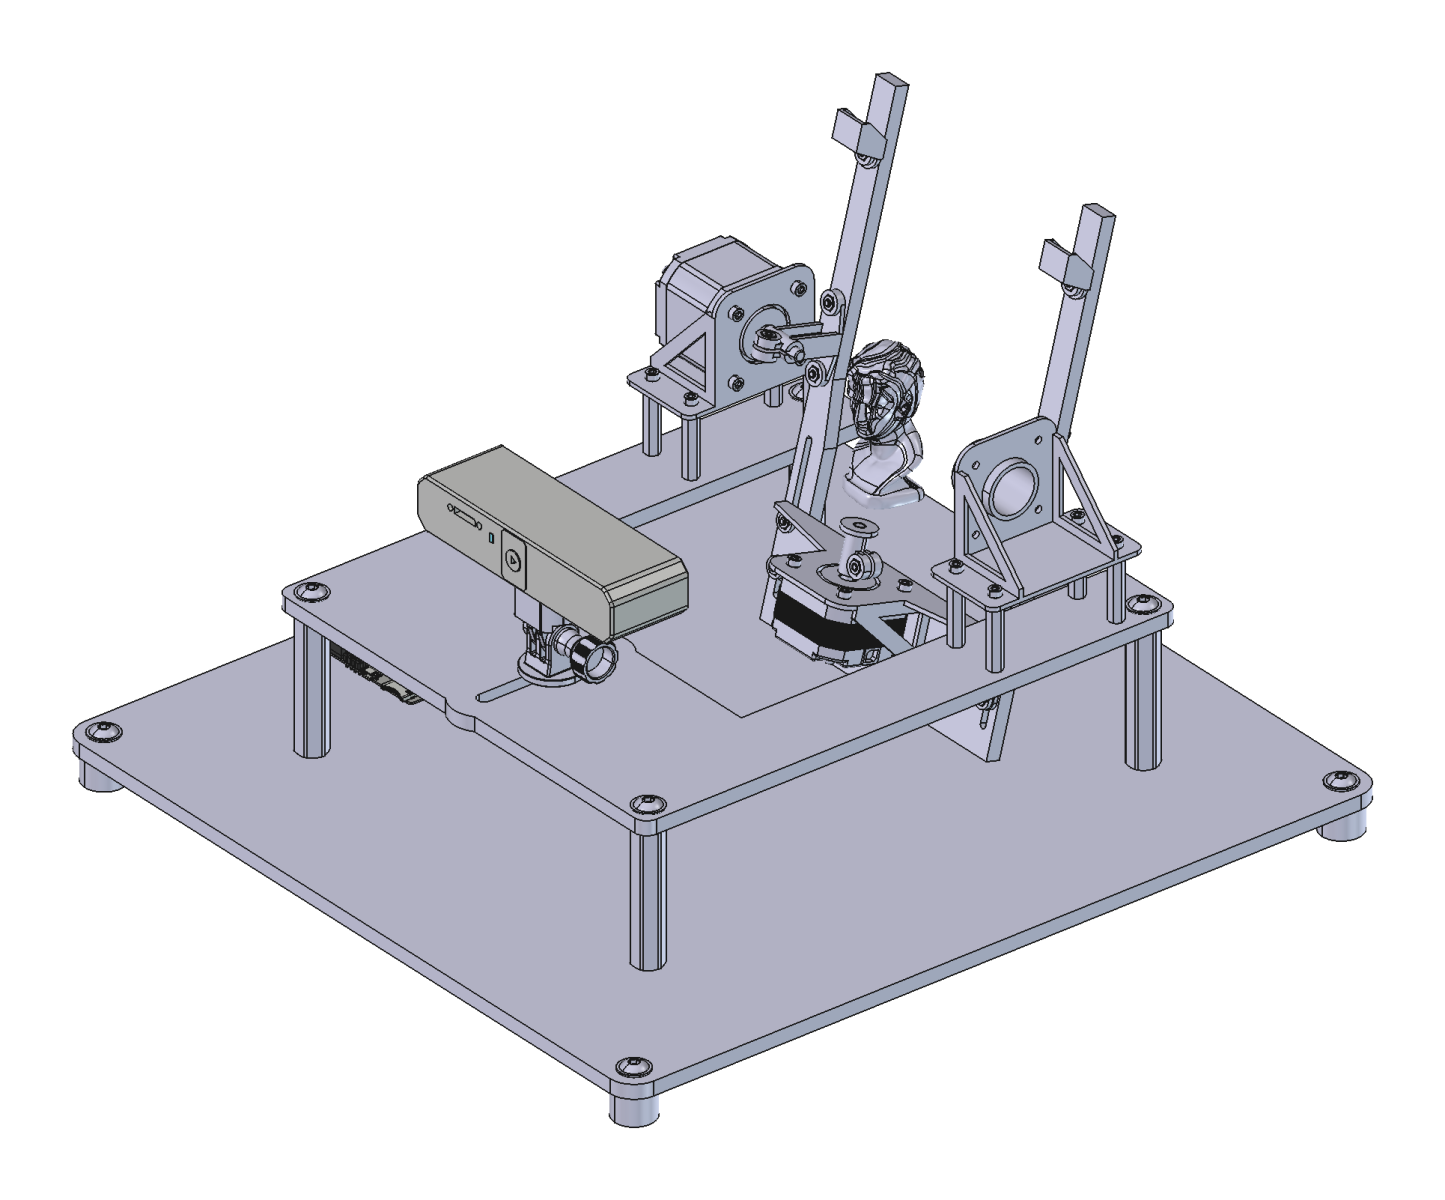
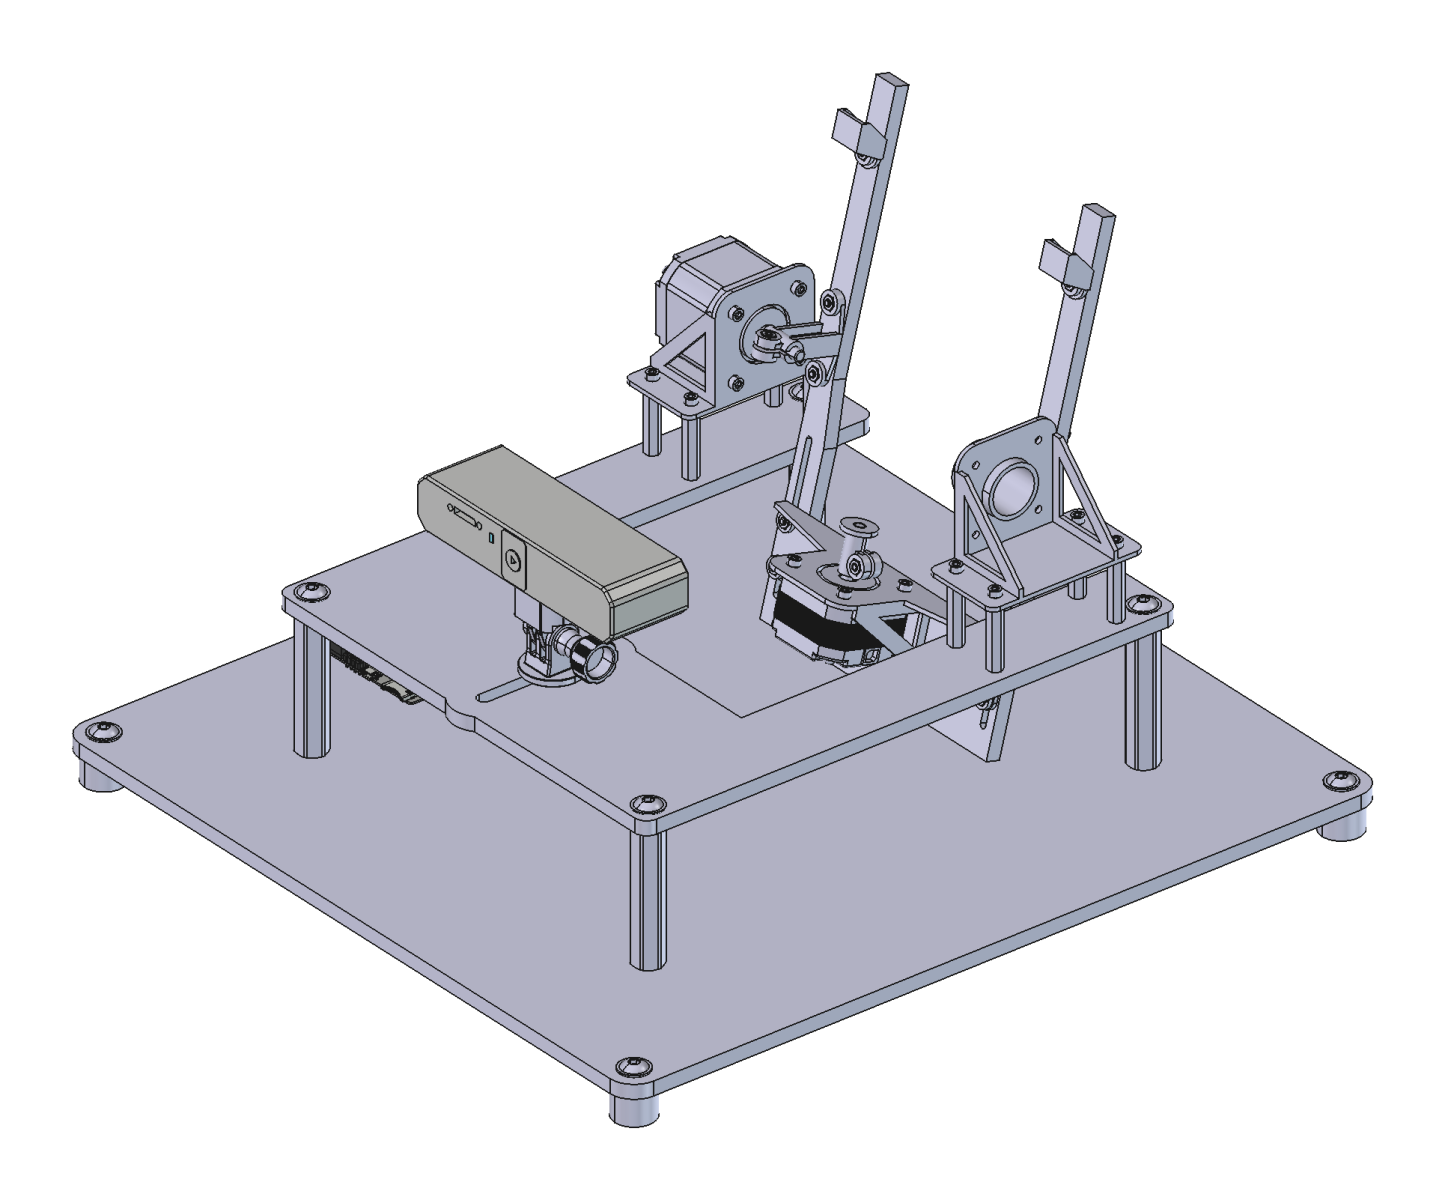
Leave the example bust out of the CAD renders
It floats above the turntable rather than sitting on the longitude
mounting plate, so the renders read better without it.

Changed region(s): [[0.5606, 0.2775, 0.654, 0.4317]]

diff --git a/cad/README.md b/cad/README.md
@@ -5,13 +5,12 @@ Open `assembly.FCStd` for the whole stage.
 
 Some parts are models from other sources that can't be redistributed here (see
 [Missing parts](#missing-parts)), so FreeCAD opens the assemblies without them.
-The renders below include them.
+The renders below include them, apart from the example object.
 
 ![The stage seen from the scanner's end](images/assembly_front.png)
 
-From the scanner's end: the scanner faces the object on the turntable, which
-rides in the tilting cradle between the latitude motor and the pivot opposite
-it.
+From the scanner's end: the scanner faces the turntable, which rides in the
+tilting cradle between the latitude motor and the pivot opposite it.
 
 ![The stage seen from the opposite corner](images/assembly_back.png)
 
